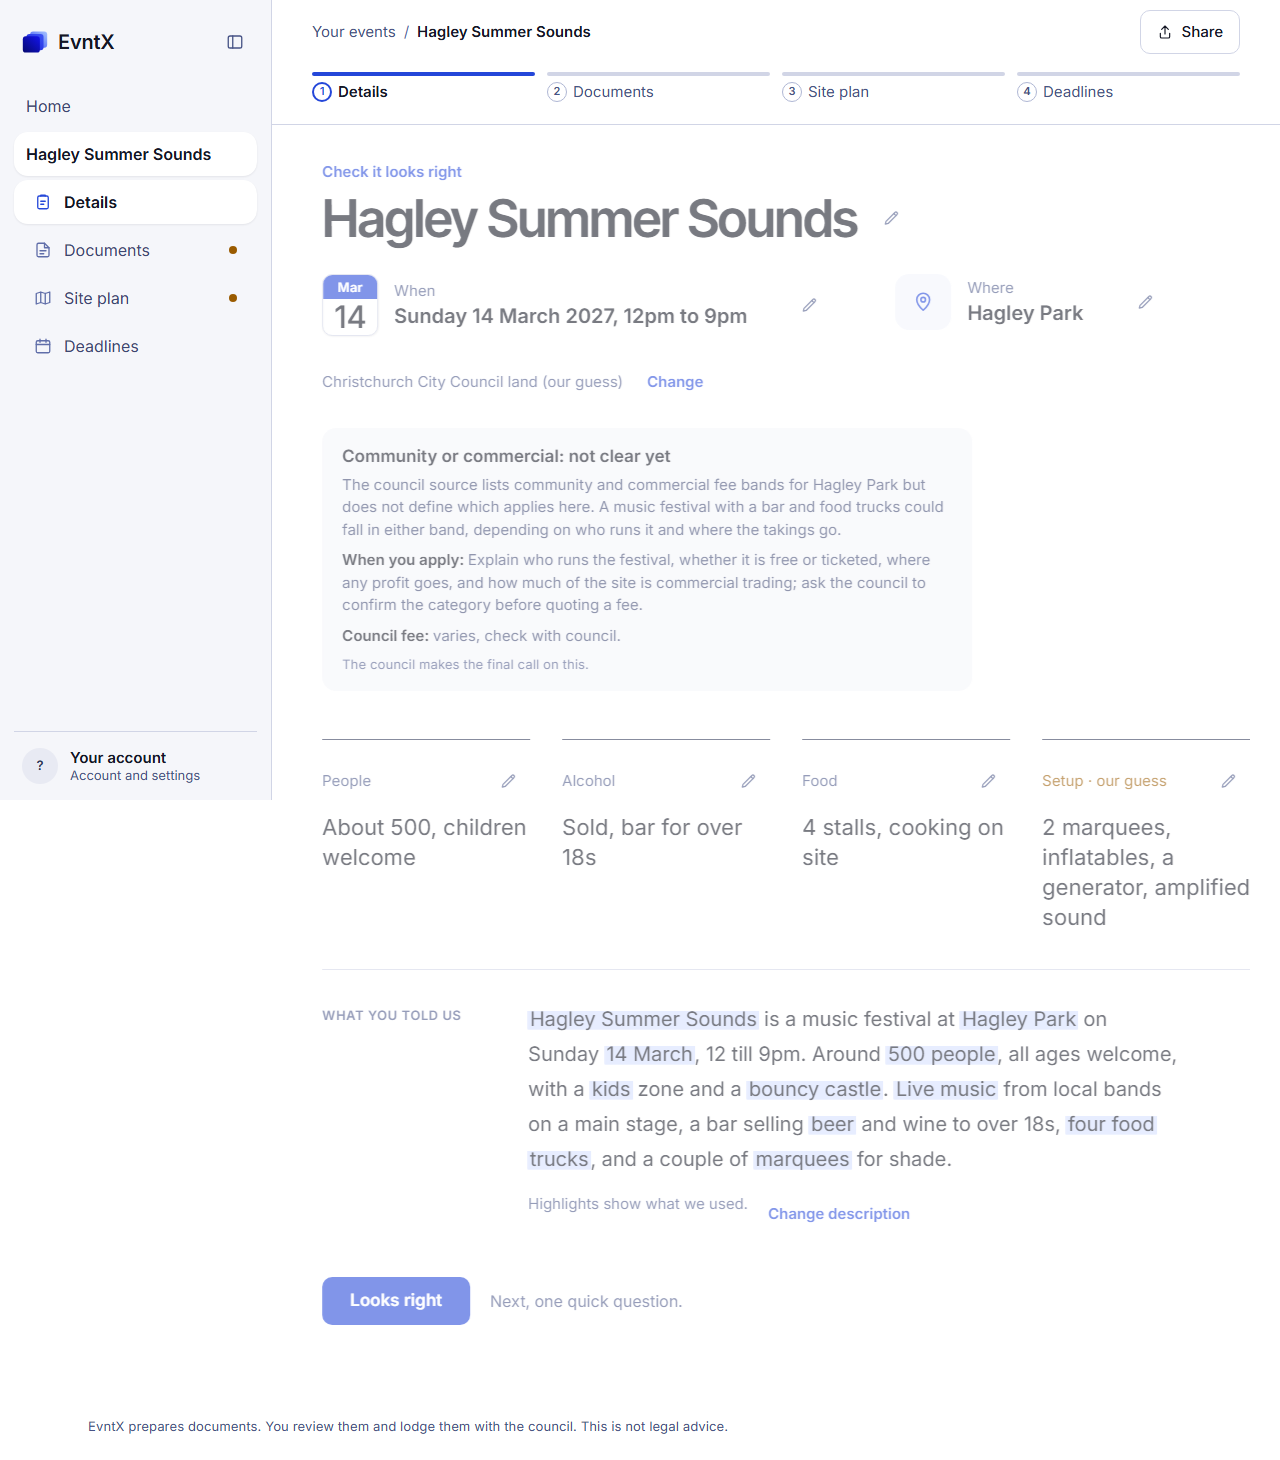
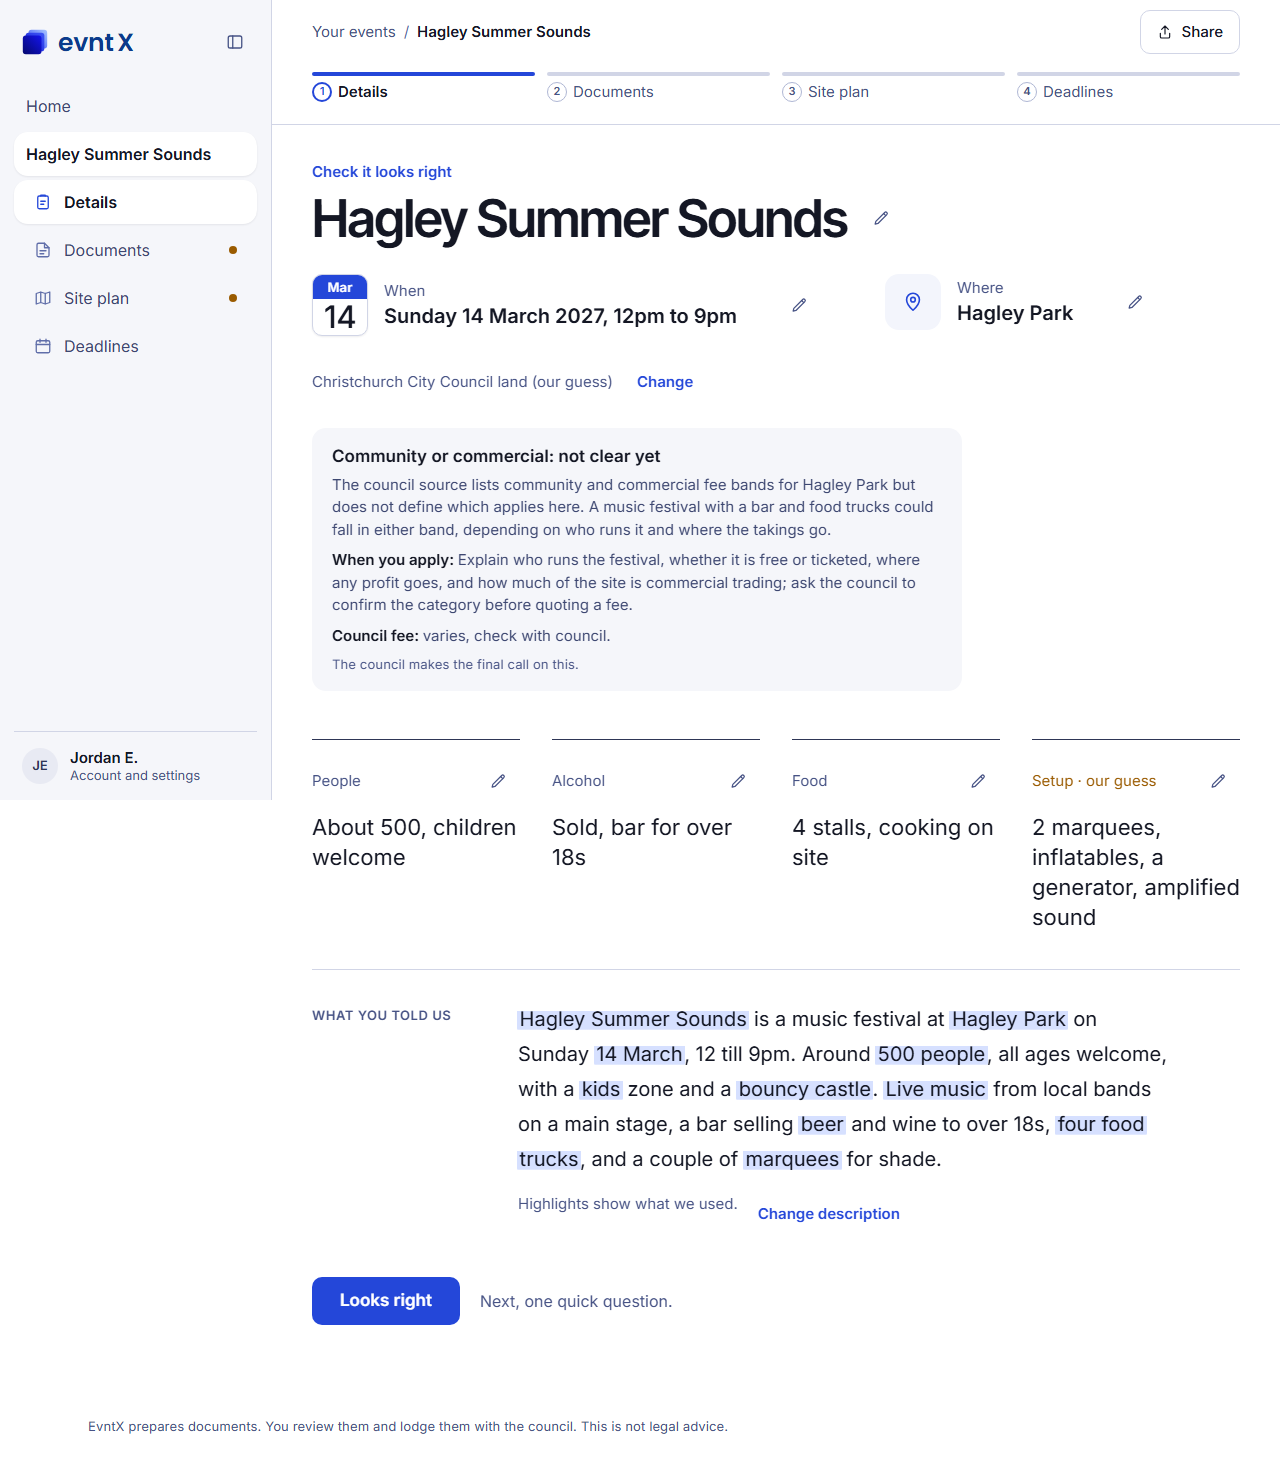
Theme the app around the demo festival
- Describe hint, app preview and demo user (Jordan Example) follow Hagley Summer Sounds; landing hero reads the fixture (landed in 6aa8759)
- Login and licences copy say team, not club; budget adds stage and sound hire
- AGENTS.md and PRD record the decided scenario
- E2E shoots the landing page and waits for entrance animations; screenshots and walkthrough reshot

diff --git a/reports/mockup.html b/reports/mockup.html
@@ -63,7 +63,7 @@ code{font-size:.9em;background:var(--shot);padding:1px 5px;border-radius:4px}
   <header>
     <span class="eyebrow">EvntX · seeded demo event (MOCK=1 and DEMO_MODE=1)</span>
     <h1>A music festival at Hagley Park, from one paragraph to an Eventbrite draft</h1>
-    <p class="lede">Every screen of the demo path, at desktop and phone width, captured by the Playwright run on 27 Sep 2026. The data comes from <code>fixtures/demo-event.json</code>. People and arrangements in it are fictional.</p>
+    <p class="lede">The landing page and every screen of the demo path, at desktop and phone width, captured by the Playwright run on 27 Sep 2026. The data comes from <code>fixtures/demo-event.json</code>. People and arrangements in it are fictional.</p>
     <blockquote><mark>Hagley Summer Sounds</mark> is a music festival at <mark>Hagley Park</mark> on Sunday <mark>14 March</mark>, 12 till 9pm. Around <mark>500 people</mark>, all ages welcome, with a <mark>kids</mark> zone and a <mark>bouncy castle</mark>. <mark>Live music</mark> from local bands on a main stage, a bar selling <mark>beer</mark> and wine to over 18s, <mark>four food trucks</mark>, and a couple of <mark>marquees</mark> for shade.</blockquote>
   </header>
 
@@ -116,6 +116,7 @@ code{font-size:.9em;background:var(--shot);padding:1px 5px;border-radius:4px}
 
 <script>
 const STEPS = [
+  ["00-landing", "Landing page", "The public page opens on the same festival paragraph. Hagley Park, the bar, the bouncy castle and the food trucks each link to the CCC rule they trigger.", ["The app preview's event list starts with Hagley Summer Sounds.", "Get started free, or describe an event straight from the hero."]],
   ["01-describe", "Describe", "The organiser, Jordan, pastes one paragraph and clicks Check my event.", ["No council picker: every event is Christchurch City Council.", "Up to 2,000 characters."]],
   ["02-details", "Details and classification", "HostReady shows what it understood, tagged stated, inferred or answered, and the likely classification with its reasoning.", ["Main action: Looks right.", "Classification comes back unclear, fee reads varies, check with council."]],
   ["03-questions", "Questions", "One tap question, because only the marquee size is missing and a CCC rule reads it.", ["Answers save as you tap.", "Then Continue to documents."]],
@@ -131,7 +132,7 @@ STEPS.forEach(([file, name, what, bullets], i) => {
   const el = document.createElement("article");
   el.className = "step";
   el.innerHTML = `
-    <div class="stephead"><span class="num">${i + 1}</span><h3>${name}</h3></div>
+    <div class="stephead"><span class="num">${i}</span><h3>${name}</h3></div>
     <div class="stepbody"><p>${what}</p><ul>${bullets.map((b) => `<li>${b}</li>`).join("")}</ul></div>
     <div class="shots">
       <figure><div class="frame" tabindex="0" aria-label="${name}, desktop screenshot, scrollable"><img src="shots/${file}-desktop.png" alt="${name} screen at desktop width" loading="lazy"></div><figcaption>Desktop, 1280 px</figcaption></figure>

diff --git a/app/login/page.tsx b/app/login/page.tsx
@@ -35,10 +35,10 @@ export default function LoginPage() {
     <div className="mx-auto max-w-md px-4 py-6 sm:px-6">
       <Wordmark />
       <div className="mt-16 space-y-8">
-        <Title sub="Your events and licences are saved to your club, ready for next year.">Sign in</Title>
+        <Title sub="Your events and licences are saved to your team, ready for next year.">Sign in</Title>
         <form action={sendLink} className="space-y-3">
           <label htmlFor="email" className="block text-base font-semibold text-foreground">Email</label>
-          <input id="email" name="email" type="email" required autoComplete="email" placeholder="you@club.co.nz"
+          <input id="email" name="email" type="email" required autoComplete="email" placeholder="you@example.com"
             className="block min-h-12 w-full rounded-lg border border-neutral-300 bg-background px-4 text-lg text-foreground placeholder:text-neutral-500 focus:border-primary focus:outline-none focus:ring-4 focus:ring-brand-100" />
           <Button type="submit" busy={busy === "email"} disabled={!!busy} className="min-h-12 w-full">Email me a sign-in link</Button>
         </form>

diff --git a/e2e/golden-path.spec.ts b/e2e/golden-path.spec.ts
@@ -13,6 +13,7 @@ test("golden path", async ({ page }, info) => {
   const shot = async (screen: string) => {
     n += 1;
     await page.waitForLoadState("networkidle").catch(() => {});
+    await page.waitForTimeout(700); // let entrance animations settle, or the shot catches them half faded
     await page.screenshot({ path: `${SHOTS}/${String(n).padStart(2, "0")}-${screen}-${info.project.name}.png`, fullPage: true });
   };
   const step = async (name: string, fn: () => Promise<void>) => {
@@ -25,6 +26,11 @@ test("golden path", async ({ page }, info) => {
     if (!path.test(new URL(page.url()).pathname)) await page.goto(url);
   };
   const id = "demo"; // MOCK createEvent always returns { id: "demo" }
+
+  // 0. Landing: the hero previews the demo event
+  await page.goto("/");
+  await page.waitForTimeout(1500); // the hero's highlight sweep
+  await page.screenshot({ path: `${SHOTS}/00-landing-${info.project.name}.png`, fullPage: true });
 
   // 1. Describe
   await page.goto("/new");

diff --git a/components/describe-form.tsx b/components/describe-form.tsx
@@ -7,11 +7,11 @@ import { useFail, useToast } from "./toast";
 import { Button, Spinner, cx } from "./ui";
 
 const MAX = 2000;
-// Illustrative examples for the typing placeholder. Generic, not the demo event.
+// Examples for the typing placeholder. The first one previews the demo event (team decision, 27 Sep 2026).
 const EXAMPLES = [
-  "School gala in Riccarton, 600 people, beer tent…",
-  "Street market in Sydenham, 20 stalls, live music…",
-  "Club prizegiving in a marquee, drinks at a bar…",
+  "Music festival at Hagley Park, 500 people, a bar and food trucks…",
+  "Night market in Sydenham, 20 stalls, live music…",
+  "Jazz picnic in a marquee, drinks at a bar…",
 ];
 
 /** Typing placeholder (Wyatt). Stops while the field is focused or filled, and under reduced motion. */

diff --git a/app/(screens)/licences/page.tsx b/app/(screens)/licences/page.tsx
@@ -7,7 +7,7 @@ import { daysBetween, fmtDate } from "@/components/format";
 import { useFail } from "@/components/toast";
 import { Skeleton, Title, cx } from "@/components/ui";
 
-// Licences and certificates your club holds, soonest to expire first.
+// Licences and certificates your team holds, soonest to expire first.
 export default function LicencesPage() {
   const fail = useFail();
   const [licences, setLicences] = useState<Licence[] | null>(null);

diff --git a/app/(screens)/budget/page.tsx b/app/(screens)/budget/page.tsx
@@ -10,6 +10,7 @@ const KEY = "hostready-budget";
 const START: Line[] = [
   { id: "permit", label: "Council event permit", amount: "", council: true },
   { id: "licence", label: "Special licence", amount: "", council: true },
+  { id: "stage", label: "Stage and sound hire", amount: "" },
   { id: "marquee", label: "Marquee hire", amount: "" },
   { id: "toilets", label: "Toilets", amount: "" },
   { id: "firstaid", label: "First aid", amount: "" },

diff --git a/AGENTS.md b/AGENTS.md
@@ -14,9 +14,9 @@ EvntX turns a plain-English event description into a council-ready permit and li
 
 Demo flow (the product, whatever the event): an organiser types one paragraph about their event. In under three minutes they get the list of documents the council needs and why, drafts checked against the council checklist (one red item turns green with "Fix"), a working-day timeline, a PDF pack, a reminder email that lands live, and an Eventbrite draft that only unlocks once every check is green. Christchurch City Council is the only council; councils stay data, not code.
 
-## Demo scenario: a placeholder, not a spec
+## Demo scenario: Hagley Summer Sounds
 
-The specific demo event (who, where, what) is **not decided yet**. `fixtures/demo-event.json` holds a placeholder so MOCK mode and tests have data. Never build logic, copy, UI text, prompts, tests or defaults around that event's details (its venue, club, crowd size, alcohol, rides, dates or document ids). Build for any event any organiser could describe; read the demo event only through the fixture. To change the scenario: edit `description` and `profile` in the fixture, run `npm run fixture` (recomputes questions, requirements and deadlines with the real engines and lists which documents to add or remove), update `documents` and `fixedDocument` (exactly one `needs_fix` document, repaired by `fixedDocument`), then `npm test`.
+The demo event is decided (27 Sep 2026): **Hagley Summer Sounds**, an all-ages music festival at Hagley Park on Sun 14 Mar 2027, about 500 people, with a bar, four food trucks, a kids zone with a bouncy castle, a main stage and marquees. It lives in `fixtures/demo-event.json`. The landing hero and the first Describe hint deliberately preview it (`app/page.tsx`, `components/describe-form.tsx`); the landing page reads the fixture, so it follows any change. Everywhere else, never build logic, prompts, tests or defaults around its details (venue, crowd size, alcohol, dates or document ids): build for any event any organiser could describe, and read the demo event only through the fixture. To change the scenario: edit `description` and `profile` in the fixture, run `npm run fixture` (recomputes questions, requirements and deadlines with the real engines and lists which documents to add or remove), update `documents` and `fixedDocument` (exactly one `needs_fix` document, repaired by `fixedDocument`), then `npm test`.
 
 Read next: `docs/TRD.md` (architecture, API, data), `docs/PRD.md` (product), and your lane brief in `docs/lanes/`.
 

diff --git a/docs/PRD.md b/docs/PRD.md
@@ -63,7 +63,7 @@ We design for the volunteer and sell to the organisation.
 | One-off organiser | Anyone running a single public event | Get it right once | $29 per event |
 | Committee approver | Club president or licensee | Sign off documents before lodging | Included |
 
-**Demo scenario: to be decided.** The demo event will be a volunteer's public event in Christchurch that triggers several council requirements at once (for example alcohol, food, structures), so the pack is rich. The current placeholder lives only in `fixtures/demo-event.json`; nothing else depends on it (see AGENTS.md "Demo scenario").
+**Demo scenario: Hagley Summer Sounds.** Jordan, a volunteer organiser, is running an all-ages music festival at Hagley Park on Sun 14 Mar 2027 for about 500 people: a bar selling beer and wine, four food trucks, a kids zone with a bouncy castle, a main stage and marquees. It triggers eight CCC requirements at once, so the pack is rich. The current placeholder lives only in `fixtures/demo-event.json`; nothing else depends on it (see AGENTS.md "Demo scenario").
 
 ## User journey
 
@@ -183,7 +183,7 @@ Retention: every event creates new paperwork, recurring events copy in one click
 
 | Time | What happens |
 | --- | --- |
-| 0:00 to 0:45 | Problem. Meet the organiser (scenario to be decided). They face council forms, a safety plan, a liquor licence, a site plan and deadlines they don't know about |
+| 0:00 to 0:45 | Problem. Meet Jordan, organising Hagley Summer Sounds. They face council forms, a safety plan, a liquor licence, a site plan and deadlines they don't know about |
 | 0:45 to 1:15 | The stack of real council PDFs she would have to fill in |
 | 1:15 to 3:30 | Live: type the event, AI asks one or two questions, required documents appear with reasons and sources, drafts fill in, the red checklist item turns green, the site plan appears, the timeline shows the special licence date |
 | 3:30 to 4:15 | Export the PDF pack, trigger the reminder email live, Eventbrite draft unlocks. |
